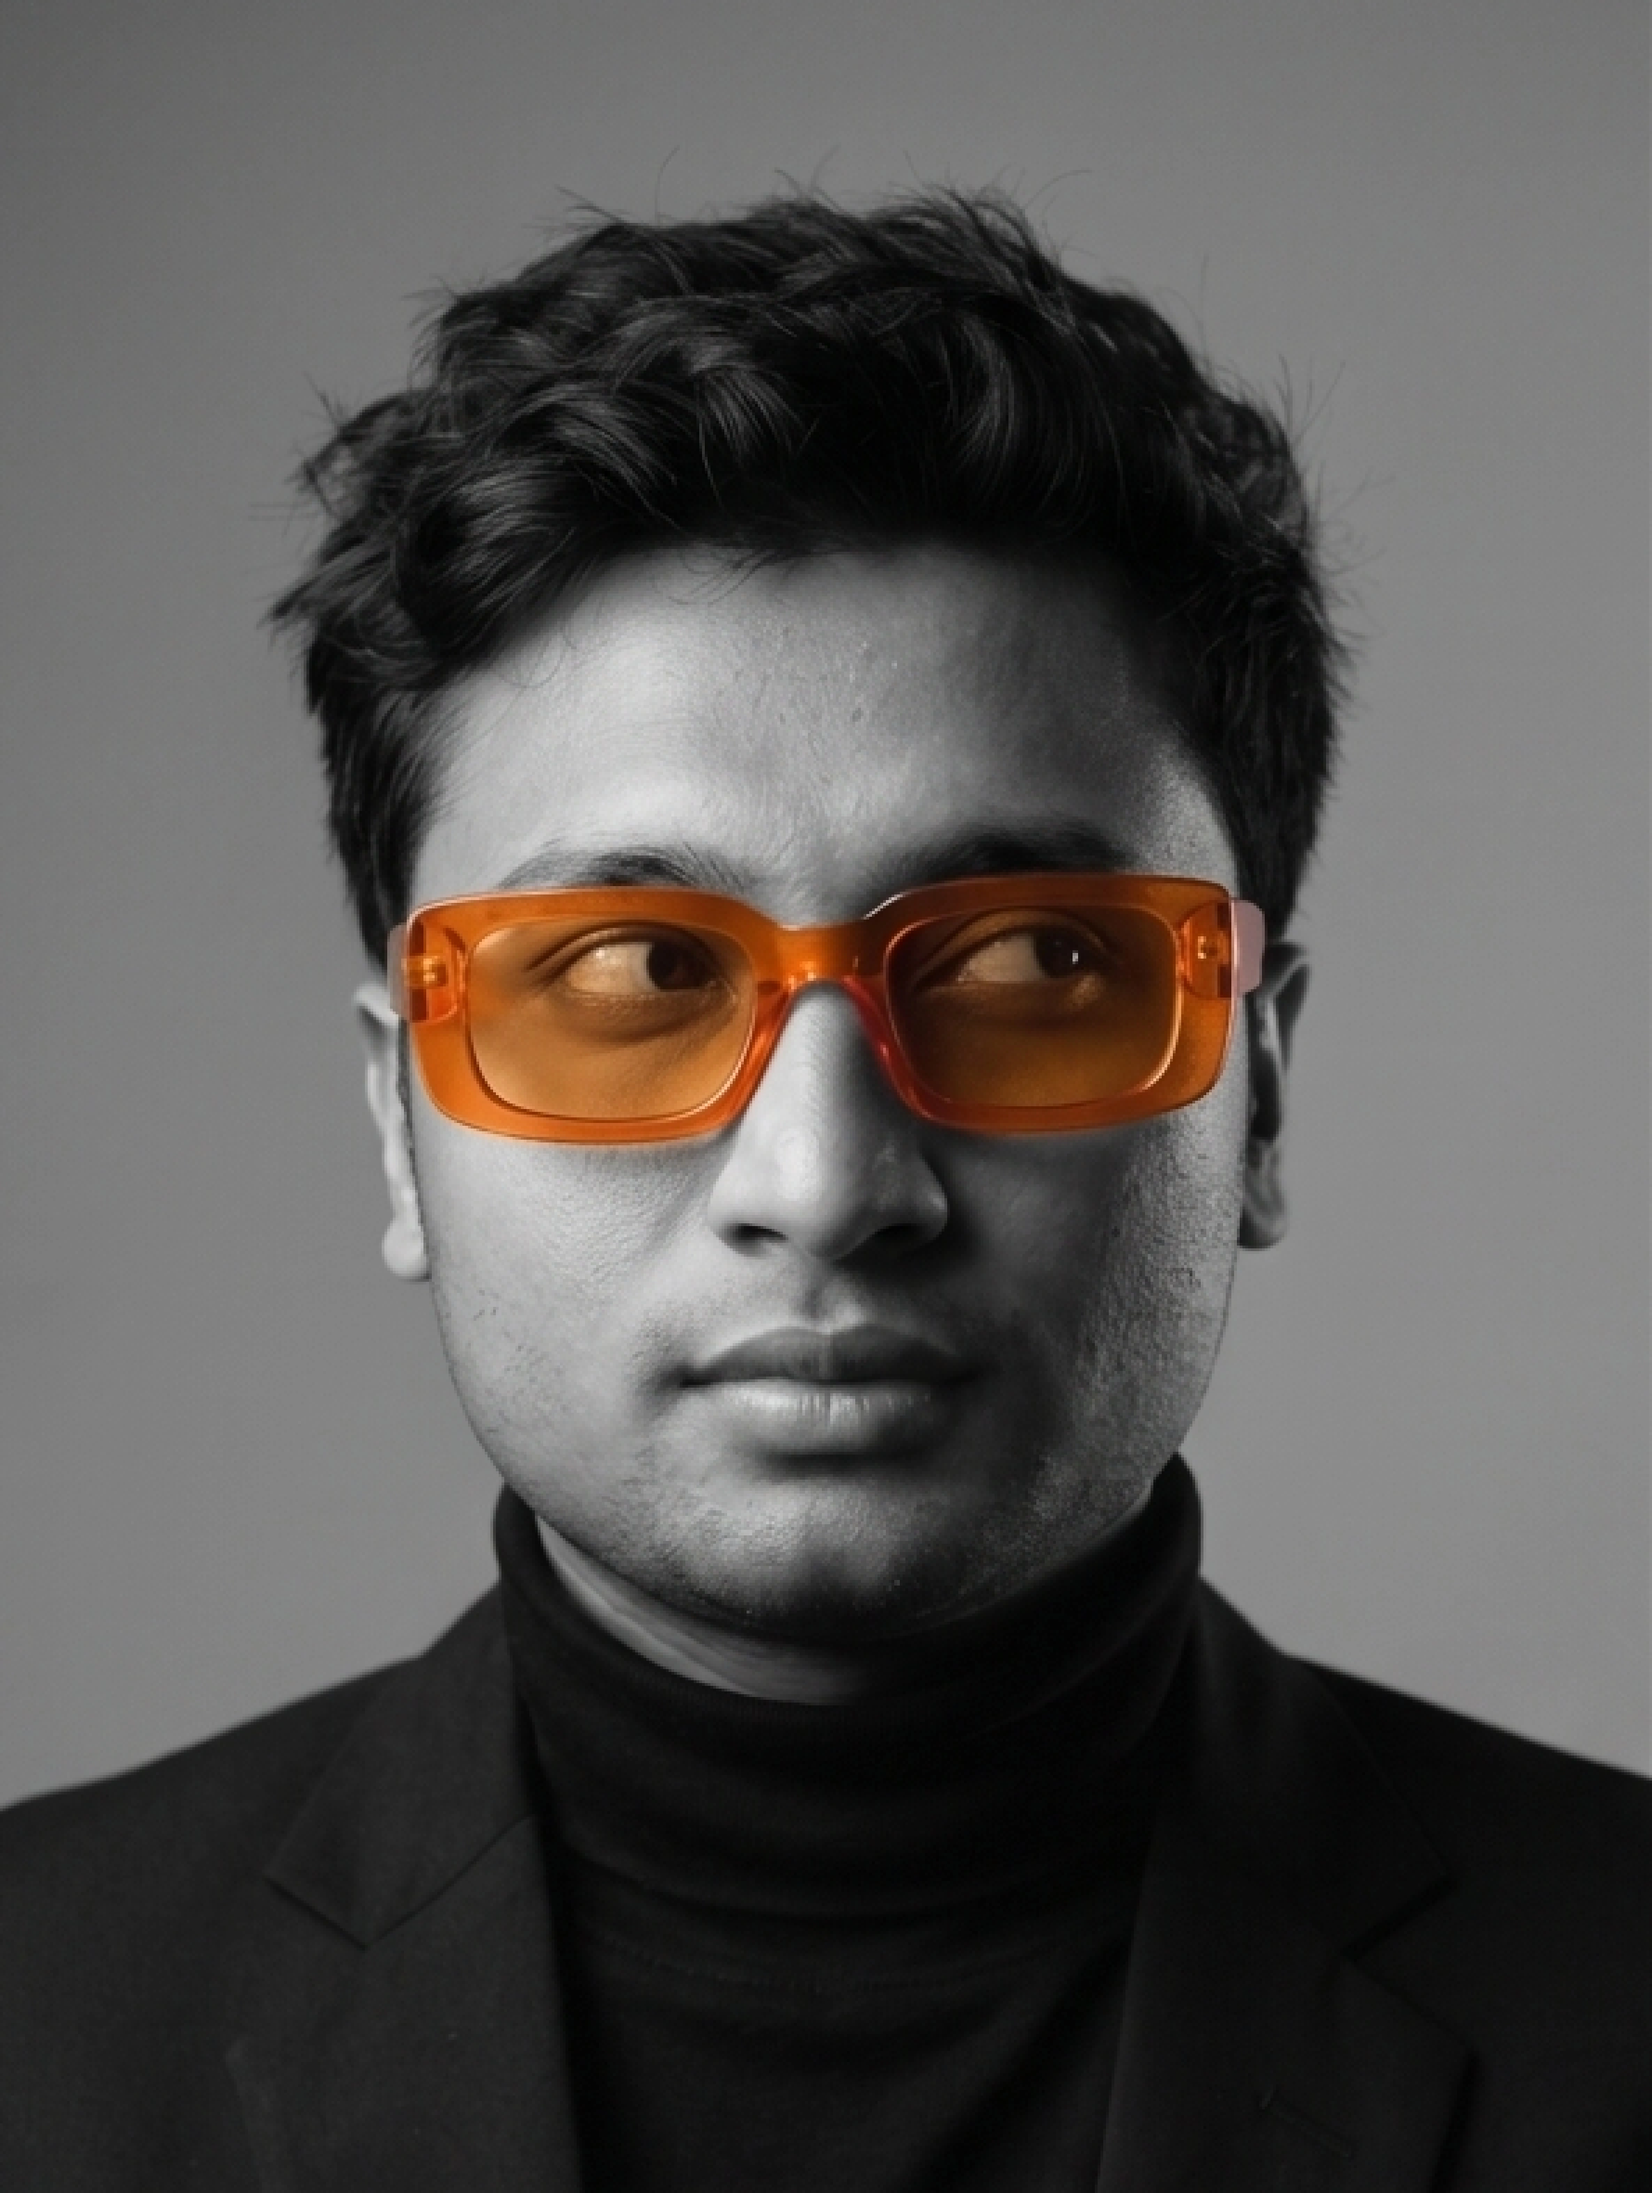
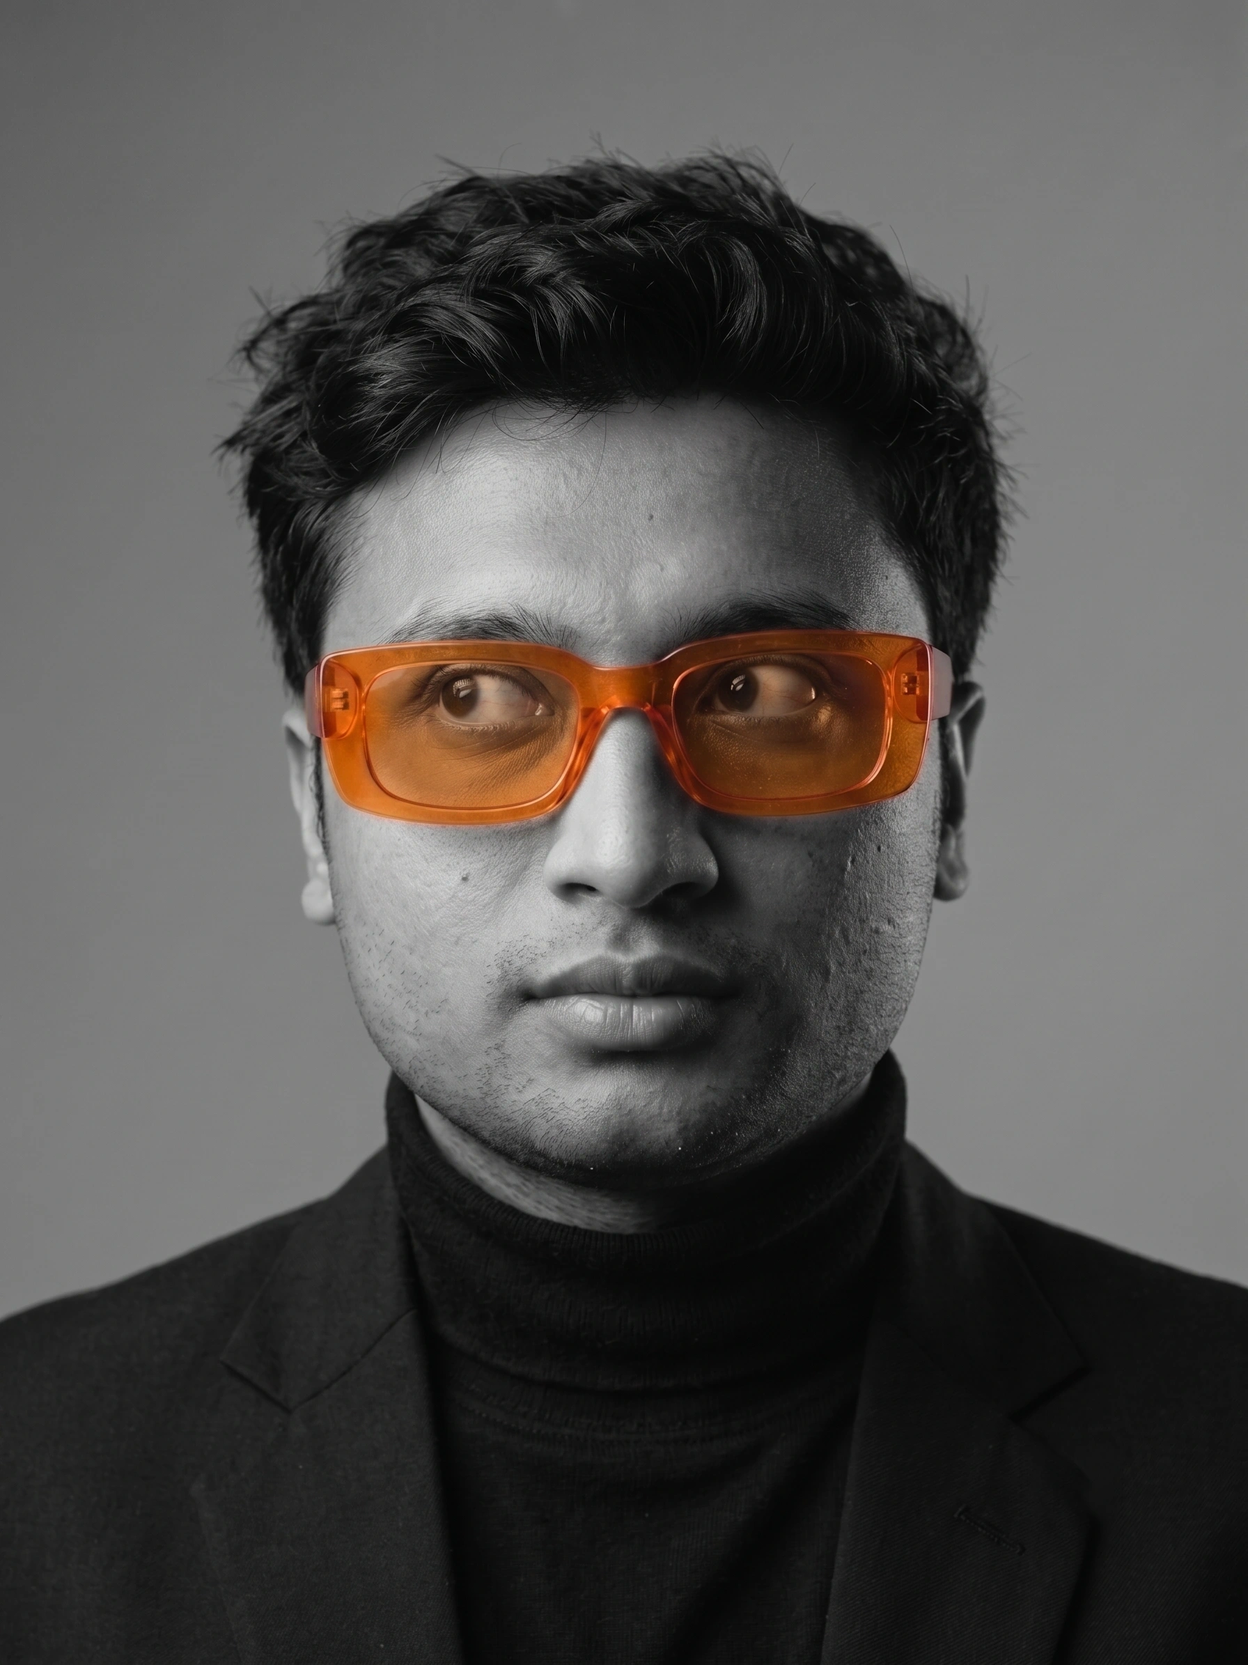
upadted

Changed region(s): [[0.0, 0.0929, 1.0, 0.836], [0.3125, 0.7741, 0.375, 1.0]]

diff --git a/src/styles/BrandTicker.css b/src/styles/BrandTicker.css
@@ -4,12 +4,12 @@
 
 .ticker-section {
   background: transparent;
-  height: 60px;
+  height: 100px;
   align-items: center;
   justify-content: center;
   display: flex;
   width: 100%;
-  padding: 3rem 0;
+  padding: 0;
   overflow: hidden;
   position: relative;
   max-width: 1280px;
@@ -30,6 +30,7 @@
 .ticker-container {
   width: 100%;
   display: flex;
+  align-items: center;
   overflow: hidden;
   user-select: none;
   position: relative;
@@ -51,52 +52,33 @@
   align-items: center;
   width: max-content;
   flex-shrink: 0;
-  gap: 3.5rem;
-  padding-right: 3.5rem;
+  gap: 7rem;
+  padding-right: 7rem;
   will-change: transform;
   animation: scrollTicker 80s linear infinite;
-}
-
-.ticker-container:hover .ticker-track {
-  /* animation-play-state: paused; */
 }
 
 .ticker-item {
   display: flex;
   align-items: center;
   justify-content: center;
-  padding: 0.5rem 0;
+  padding: 0;
   flex-shrink: 0;
-  cursor: pointer;
 }
 
 .ticker-brand-image {
-  height: 24px;
-  max-height: 32px;
-  width: auto;
-  max-width: 180px;
+  height: 80px;
+  width: 80px;
+  max-height: 84px;
+  max-width: 84px;
   object-fit: contain;
-  -webkit-filter: grayscale(100%) opacity(0.6);
-  filter: grayscale(100%) opacity(0.6);
-  transition: -webkit-filter 0.3s ease, filter 0.3s ease, opacity 0.3s ease, transform 0.3s ease;
-  cursor: pointer;
+  filter: none;
+  opacity: 1;
 }
 
-.ticker-brand-image:hover,
-.ticker-item:hover .ticker-brand-image {
-  -webkit-filter: grayscale(0%) opacity(1) !important;
-  filter: grayscale(0%) opacity(1) !important;
-}
-
+/* Dark Mode: Grayscale filter so logos stand out cleanly on dark backgrounds */
 [data-theme="dark"] .ticker-brand-image {
-  -webkit-filter: grayscale(100%) brightness(1.8) opacity(0.85);
-  filter: grayscale(100%) brightness(1.8) opacity(0.85);
-}
-
-[data-theme="dark"] .ticker-brand-image:hover,
-[data-theme="dark"] .ticker-item:hover .ticker-brand-image {
-  -webkit-filter: grayscale(0%) brightness(1) opacity(1) !important;
-  filter: grayscale(0%) brightness(1) opacity(1) !important;
+  filter: grayscale(100%) brightness(1.7) contrast(1.1) opacity(0.95);
 }
 
 @keyframes scrollTicker {
@@ -112,44 +94,57 @@
 /* Breakpoint responsiveness for 1200px, 768px, 360px */
 @media (min-width: 1200px) {
   .ticker-section {
-    padding: 3rem 0;
+    height: 110px;
+    padding: 0;
   }
 
   .ticker-track {
-    gap: 7rem;
-    padding-right: 7rem;
+    gap: 9rem;
+    padding-right: 9rem;
   }
 
   .ticker-brand-image {
-    height: 44px;
-    max-width: 200px;
+    height: 90px;
+    width: 90px;
+    max-height: 96px;
+    max-width: 96px;
   }
 }
 
 @media (max-width: 767px) {
   .ticker-section {
-    padding: 2.5rem 0;
+    height: 80px;
+    padding: 0;
   }
 
   .ticker-track {
-    gap: 2.5rem;
-    padding-right: 2.5rem;
+    gap: 5rem;
+    padding-right: 5rem;
   }
 
   .ticker-brand-image {
-    height: 32px;
-    max-width: 140px;
+    height: 60px;
+    width: 60px;
+    max-height: 64px;
+    max-width: 64px;
   }
 }
 
 @media (max-width: 360px) {
+  .ticker-section {
+    height: 70px;
+    padding: 0;
+  }
+
   .ticker-track {
-    gap: 2rem;
-    padding-right: 2rem;
+    gap: 3.5rem;
+    padding-right: 3.5rem;
   }
 
   .ticker-brand-image {
-    height: 28px;
-    max-width: 120px;
+    height: 50px;
+    width: 50px;
+    max-height: 54px;
+    max-width: 54px;
   }
 }

diff --git a/src/components/BrandTicker.jsx b/src/components/BrandTicker.jsx
@@ -1,37 +1,26 @@
 import React from 'react';
+import baazBikesLogo from '../assets/brand logos/webp logos/baaz-bikes.webp';
+import crimsonLogo from '../assets/brand logos/webp logos/crimson.webp';
+import globalEsportsLogo from '../assets/brand logos/webp logos/global-esports.webp';
+import smartivityLogo from '../assets/brand logos/webp logos/smartivity.webp';
 import '../styles/BrandTicker.css';
 
-// Automatically import all image formats from 'src/assets/brand logos/'
-const logoModules = import.meta.glob('../assets/brand logos/*.{png,jpg,jpeg,webp,svg,gif}', {
-  eager: true,
-  import: 'default'
-});
-
-// Dynamically generate logo objects array
-const dynamicBrandLogos = Object.entries(logoModules).map(([path, url]) => {
-  const filename = path.split('/').pop() || '';
-  const cleanName = filename
-    .replace(/\.[^/.]+$/, '')
-    .replace(/[-_]/g, ' ')
-    .replace(/\b\w/g, (char) => char.toUpperCase());
-
-  return {
-    name: cleanName,
-    src: url,
-  };
-});
+const brandLogos = [
+  { name: 'Baaz Bikes', src: baazBikesLogo },
+  { name: 'Crimson Healthcare', src: crimsonLogo },
+  { name: 'Global Esports', src: globalEsportsLogo },
+  { name: 'Smartivity', src: smartivityLogo },
+];
 
 export const BrandTicker = () => {
-  const logoList = dynamicBrandLogos.length > 0 ? dynamicBrandLogos : [];
-
-  // Repeat logos array 4 times to ensure seamless infinite marquee loop across wide viewports
-  const repeatedLogos = logoList.length > 0
-    ? [...logoList, ...logoList, ...logoList, ...logoList]
-    : [];
-
-  if (repeatedLogos.length === 0) {
-    return null;
-  }
+  // Repeat logos 5 times to ensure smooth infinite marquee loop across wide viewports
+  const repeatedLogos = [
+    ...brandLogos,
+    ...brandLogos,
+    ...brandLogos,
+    ...brandLogos,
+    ...brandLogos,
+  ];
 
   return (
     <section className="ticker-section" aria-label="Brands worked with">
@@ -45,6 +34,8 @@ export const BrandTicker = () => {
                 alt={brand.name}
                 className="ticker-brand-image"
                 loading="lazy"
+                width={500}
+                height={500}
               />
             </div>
           ))}
@@ -59,6 +50,8 @@ export const BrandTicker = () => {
                 alt={brand.name}
                 className="ticker-brand-image"
                 loading="lazy"
+                width={500}
+                height={500}
               />
             </div>
           ))}

diff --git a/src/App.jsx b/src/App.jsx
@@ -63,15 +63,10 @@ export function App() {
   });
 
   const [activeSlideIndex, setActiveSlideIndex] = useState(0);
-  const [theme, setTheme] = useState(() => {
-    const savedTheme = localStorage.getItem('portfolio_theme');
-    if (savedTheme) return savedTheme;
-    return 'light';
-  });
+  const [theme, setTheme] = useState('light');
 
   useEffect(() => {
     document.documentElement.setAttribute('data-theme', theme);
-    localStorage.setItem('portfolio_theme', theme);
   }, [theme]);
 
   const toggleTheme = () => {
